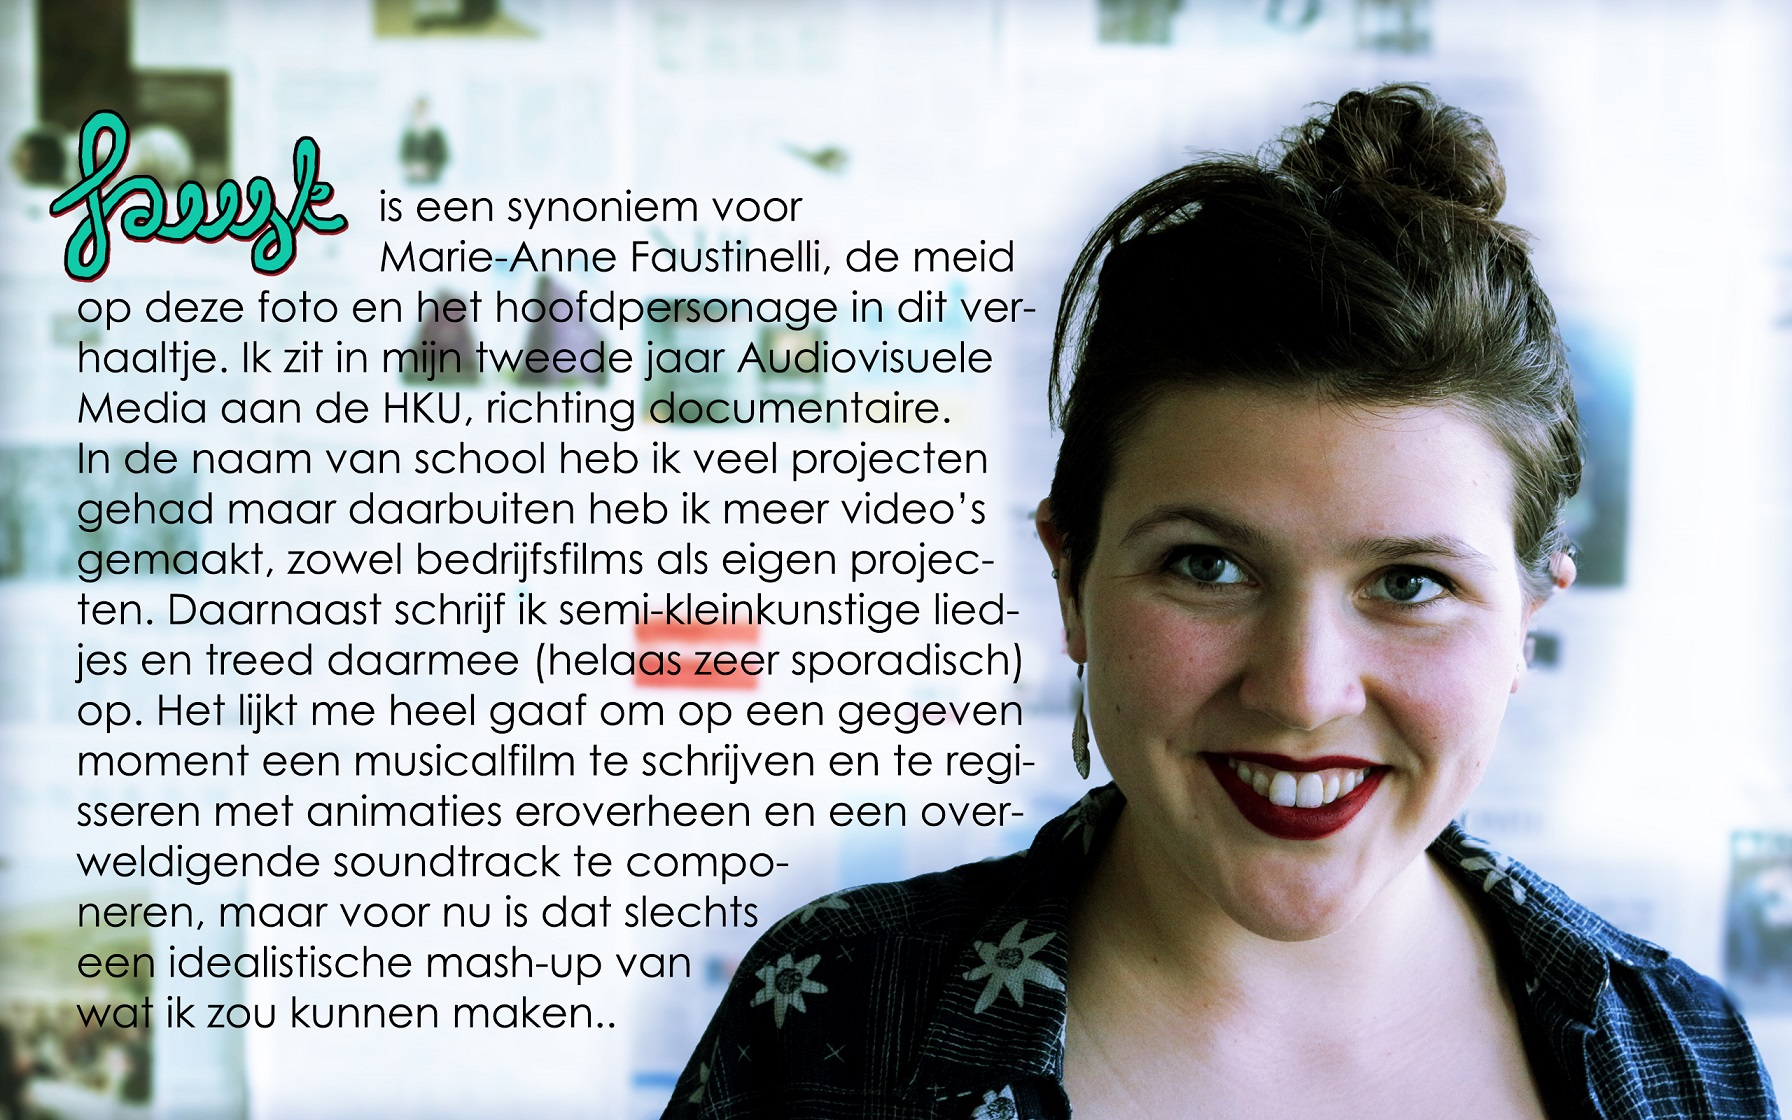
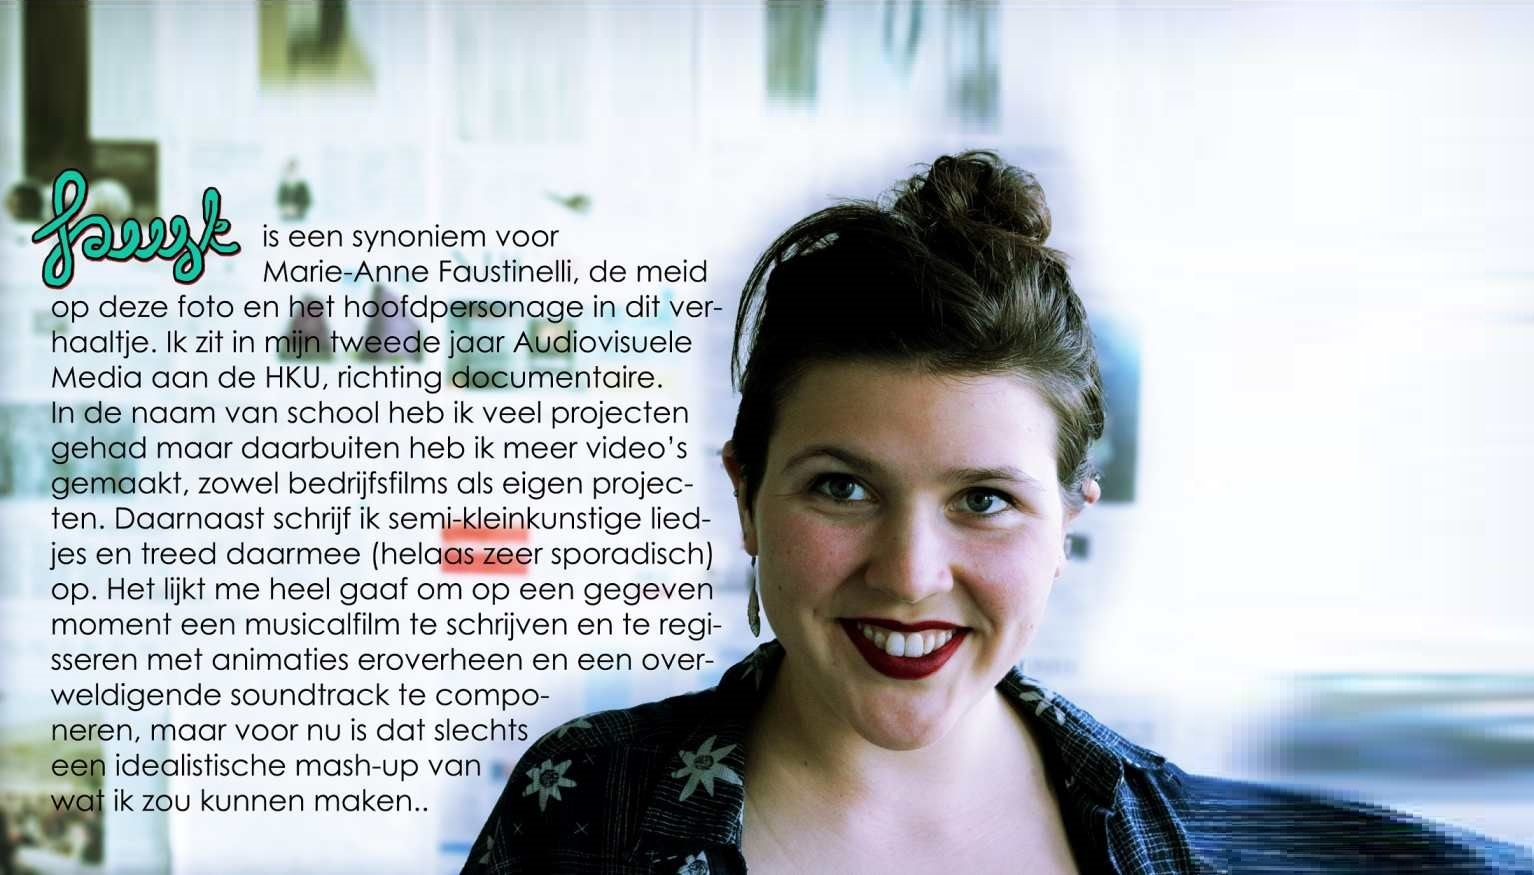
last links and bkgs

diff --git a/site/css/style.css b/site/css/style.css
@@ -102,7 +102,7 @@ body{
 }
 
 body .split-vertical {
-  width: 5%; /* smaller infra-columns - used to be 10% */
+  width: 10%; 
   display: inline;
   float: left;
   background-size: 100% 100%;
@@ -194,7 +194,6 @@ HOME PAGE STUFF
   width: 100%;
   height: 100%;
   background-size: 100%;
-  background-size: 100%;
   display: block;
 }
 
@@ -223,6 +222,7 @@ HOME PAGE STUFF
 
 .pocket_menu_nav {
   font-size: 2em;
+  text-shadow: -1px -1px green;
 }
 
 .pocket_menu_nav_small {
@@ -234,13 +234,13 @@ HOME PAGE STUFF
   color: inherit;
 }
 
-.pocket_menu_nav a:hover, .pocket_menu_nav_small a:hover {
+.bio_professional_nav a:hover, .pocket_menu_nav a:hover, .pocket_menu_nav_small a:hover {
   color: yellow;
 }
 
 .pocket_menu_nav.bottom_left {
-  bottom: 5%;
-  left: 3%;
+  bottom: 1%;
+  left: 15%;
 }
 
 .pocket_menu_nav_small.bottom_right {
@@ -256,8 +256,11 @@ HOME PAGE STUFF
 .bio_professional_nav {
   position: absolute;
   font-size: 2em;
-  right: 15%;
-  
+  right: 7%;
+}
+
+.bio_professional_nav  ul{
+  line-height: 80px;
 }
 
 .home_page_site_nav {
@@ -266,16 +269,38 @@ HOME PAGE STUFF
   margin: 100px auto -100px;
 }
 
-.facebook_item a{
+.cv_melding {
+  position: absolute;
+  left: 17%;
+  bottom: 46%;
+  font-size: 1.5em;
+}
+
+.bio_professional_nav ul li a {
+  background-size: 45px;
+  background-repeat: no-repeat;
+  padding-left: 60px;
+  color: inherit;
+}
+
+.facebook_item a {
   background:url('img/navs/facebook_item.png');
 }
 
-.youtube_item a{
+.youtube_item a {
   background:url('img/navs/youtube_item.png');
 }
 
-.linkedin_item a{
+.linkedin_item a {
   background:url('img/navs/linkedin_item.png');
+}
+
+.soundcloud_item a {
+  background:url('img/navs/soundcloud_item.png');
+}
+
+.twitter_item a {
+  background:url('img/navs/twitter_item.png');
 }
 
 /******************************************************************

diff --git a/site/js/scripts.js b/site/js/scripts.js
@@ -9,19 +9,20 @@ var cssToInteger = function(pxString) {
   return result;
 }
 
-/* add window height as min-height to all pages and splitters*/
+/* add window height as min-height to all pages and splitters */
 var resizzer = function(e){
   var multiplier = (Modernizr.touch ? 0.91 : 1)
   
   var windowHeight = Math.floor($(window).height() * multiplier);
   var windowWidth = window.innerWidth;
-  var splitMinHeight = Math.floor(windowHeight/5);
+  var splitMinHeight = Math.floor(windowHeight / 5);
 
   $('.row').css({'min-height' : windowHeight + 'px'});
   $('.split-vertical').css({'min-height' : windowHeight + 'px' });
   $('.split-horizontal').css({'min-height' : splitMinHeight + 'px' });
 
   // temporary display - TODO: remove when site is ready
+  /*
   $('.page').each(function() {
     var $this = $(this);
     var offset = $this.offset();
@@ -31,6 +32,7 @@ var resizzer = function(e){
     
     $('.page_size', $this).text(spanContent);
   });
+  */
   return false;
 };
 
@@ -43,8 +45,8 @@ function resizedw(){
 }
 
 window.onresize = function() {
-    clearTimeout(resizing);
-    resizing = setTimeout(resizedw, 100);
+  clearTimeout(resizing);
+  resizing = setTimeout(resizedw, 100);
 };
 
 $(document).ready(function(){
@@ -131,6 +133,8 @@ var pageScroller = function($targetDiv) {
 }
 
 $(document).ready(function() {
+  // REMOVE WIP-RELATED INFORMATION
+  $('span.page_name').hide();
 
   $('.nav_arrow_up')
     .prepend($('<div/>', {class:'absolute w100pc'})

diff --git a/site/index.html b/site/index.html
@@ -86,7 +86,7 @@
         <span class="page_size"></span><span class="page_name">section_1-3 bio_2</span>
         
         <nav class="cv_melding">
-          <a target="_blank" href="doc/curricula/favst_cv.pdf">Hier</a> kunt u mijn CV bekijken.
+          <a target="_blank" href="doc/curricula/favst_cv.pdf">Hier</a> kunt u mijn CV <br/>bekijken.
         </nav>
         
         <nav class="pocket_menu_nav bottom_left">
@@ -104,8 +104,8 @@
             <li class="facebook_item"><a href="https://www.facebook.com/hamsterpate" target="_blank">Facebook</a></li>
             <li class="youtube_item"><a href="https://www.youtube.com/user/MarieAnneRocks" target="_blank">YouTube</a></li>
             <li class="linkedin_item"><a href="https://www.linkedin.com/profile/view?id=264219619" target="_blank">LinkedIn</a></li>
-            <li class="soundcloud_item"><a href="" target="_blank">SoundCloud</a></li>
-            <li class="twitter_item"><a href="" target="_blank">Twitter</a></li>
+            <li class="soundcloud_item"><a href="https://soundcloud.com/favstinelli" target="_blank">SoundCloud</a></li>
+            <li class="twitter_item"><a href="https://twitter.com/FAVSTINELLI" target="_blank">Twitter</a></li>
           </ul>
         </nav>
       </section>
